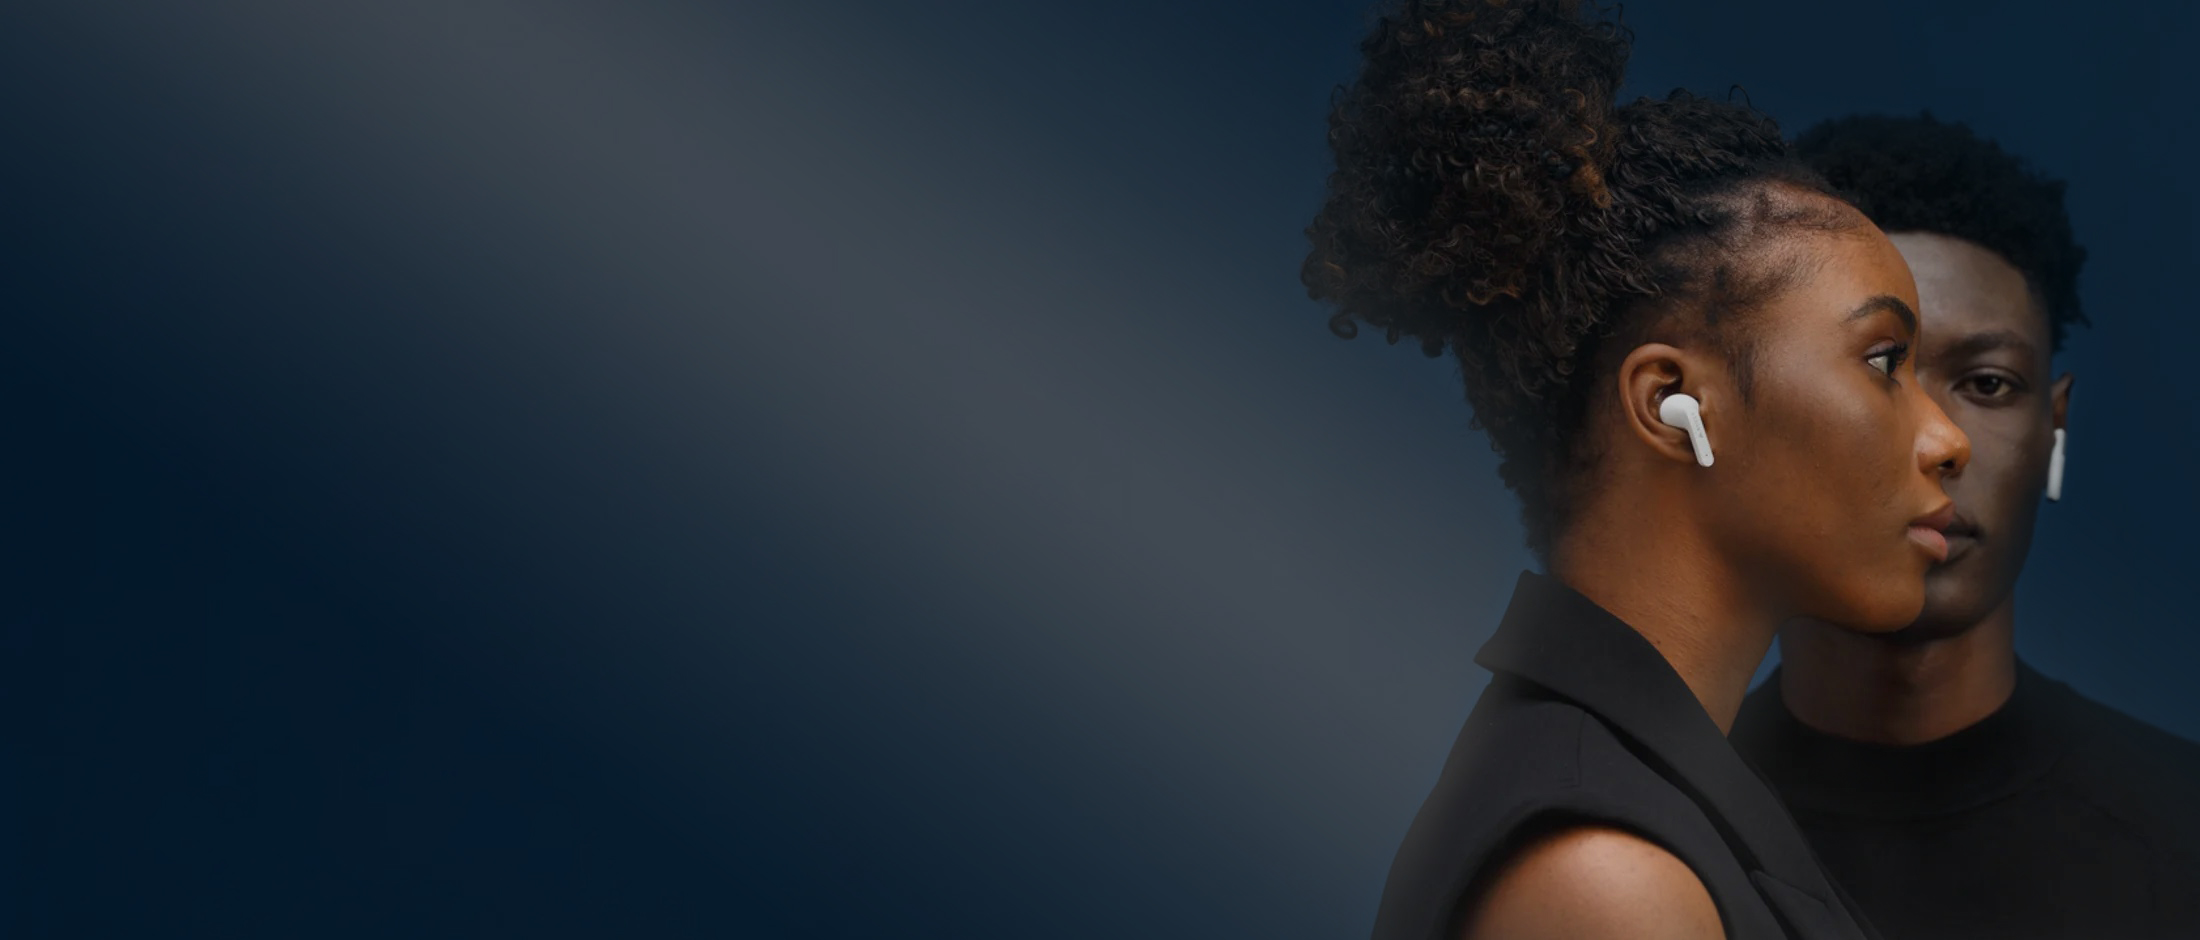
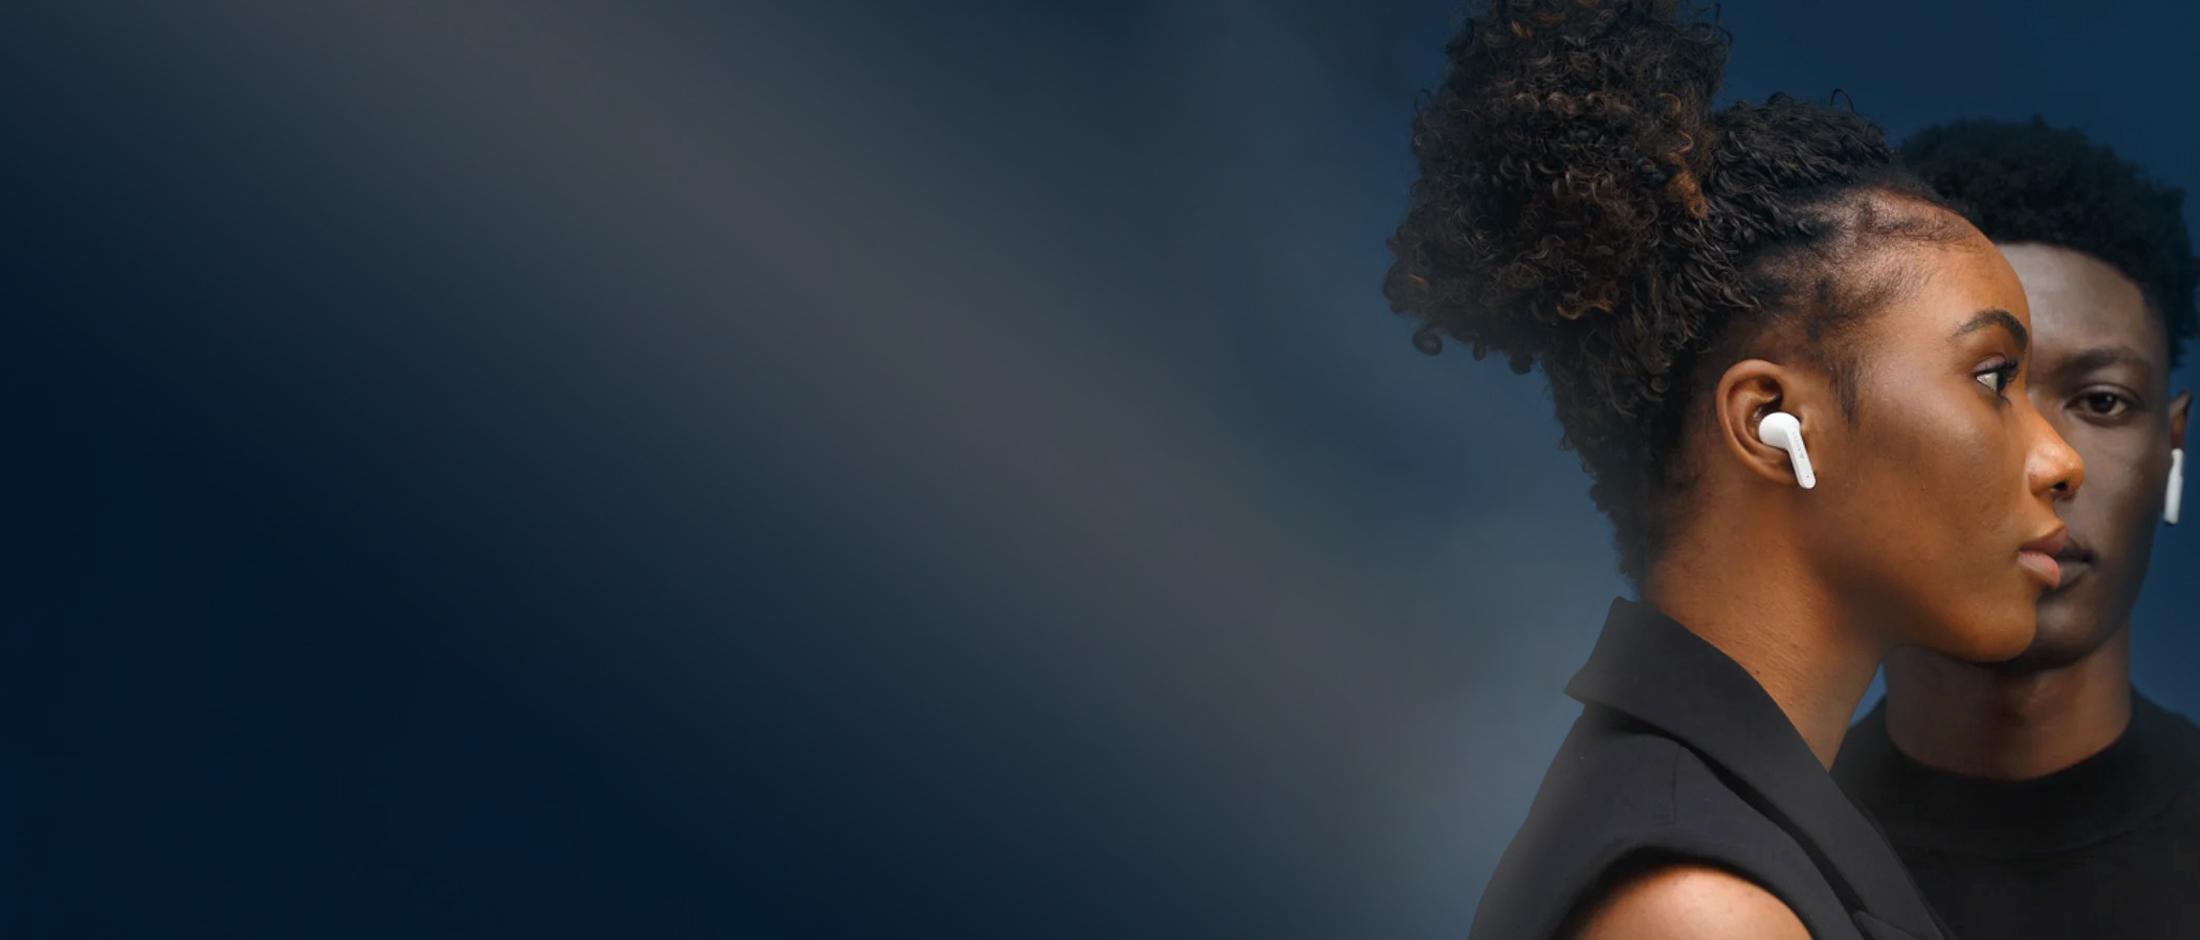
edit

Changed region(s): [[0.5873, 0.0, 1.0, 1.0]]

diff --git a/src/Component/Cards.js b/src/Component/Cards.js
@@ -71,20 +71,21 @@ function Cards({id,title,imgSrc,description,price,handlecartnumber,carts,setcart
         <Card.Img variant="top" src={imgSrc} />
         
       </Link>
-      <Card.Body>
+      <Card.Body style={{backgroundColor:"black"}}>
 { /*      <div className="d-flex align-items-center justify-content-between">
           <div className="item_rating">{}</div>
           <div className="wishlist">
             <i className="bi bi-heart"></i>
           </div>
   </div> */}
-          <div className="d-flex align-items-center justify-content-between mb-3">
-          <div className="item_rating">{renderRatingIcons(rating)}</div>
-          <div onClick={handlewishlist} >            
-            {wishlistcolor ? (<i className="bi bi-heart-fill" style={{color:"red",cursor:"pointer",fontSize:"1.5rem"}}></i> ): <i className="bi bi-heart"  style={{cursor:"pointer",fontSize:"1.5rem"}}></i>}
-          </div>
+
+        <Card.Title className="text-center" style={{ cursor: "pointer", color: "white" }} onClick={handleShow}>{title}</Card.Title>
+        <div className="d-flex align-items-center justify-content-between mb-3">
+        <div className="item_rating">{renderRatingIcons(rating)}</div>
+        <div onClick={handlewishlist} style={{color:"white"}} >            
+          {wishlistcolor ? (<i className="bi bi-heart-fill" style={{color:"red",cursor:"pointer",fontSize:"1.5rem"}}></i> ): <i className="bi bi-heart"  style={{cursor:"pointer",fontSize:"1.5rem"}}></i>}
         </div>
-        <Card.Title className="text-center" style={{ cursor: "pointer",textTransform:"Uppercase" }} onClick={handleShow}>{title}</Card.Title>
+      </div>
         <Card.Text>{}</Card.Text>
 
         <div className="d-flex align-items-center justify-content-between">
@@ -101,8 +102,8 @@ function Cards({id,title,imgSrc,description,price,handlecartnumber,carts,setcart
         </div>
       </Card.Body>
     </Card>
-    <Modal show={show} onHide={handleClose}>
-    <Modal.Header closeButton>
+    <Modal show={show} onHide={handleClose} >
+    <Modal.Header closeButton >
       <Modal.Title>{title}</Modal.Title>
     </Modal.Header>
     <Modal.Body>
@@ -110,7 +111,7 @@ function Cards({id,title,imgSrc,description,price,handlecartnumber,carts,setcart
     <img src={imgSrc} className="img-fluid " alt="cardimage" />
     </div>
     </Modal.Body>
-    <Modal.Footer>
+    <Modal.Footer style={{backgroundColor:"black",color:"yellow"}}>
     {description}
     </Modal.Footer>
   </Modal>

diff --git a/src/Pages/Homes/Section3.js b/src/Pages/Homes/Section3.js
@@ -2,6 +2,7 @@ import React from 'react'
 import { Col, Container, Row } from 'react-bootstrap'
 import { Link } from 'react-router-dom'
 import img1 from '../../assets/earbud_add.png';
+import img2 from '../../assets/headphone.png';
 function Section3() {
   return (
     <div>
@@ -9,18 +10,19 @@ function Section3() {
      <Container >
      <Row>
      <Col  lg={8} >
-     <div className='ads_box mb-5  '>
-     <h1>B&nbsp;O&nbsp;U&nbsp;L&nbsp;T&nbsp;</h1>
-      <div className='earbud_img_div'>
-      <img src={img1} className="img-fluid earbud_img" alt="Hero" />
-      </div>
-     <h5>Top Features in True Wireless Earbuds</h5>
+     <div className='ads_box mb-5  d-flex justify-content-between'>
+     <div>
+     <h5>Pemium Sound</h5>
      <h2 className="mb-0">Pro Tips to Find the</h2>
-     <h2 >Right Pair</h2>        
-      
+     <h2 >Right Pair</h2> 
+     </div>       
+      <div>
+      <img src={img2} className="img-fluid " alt="Hero" /> 
+      </div>
      </div>
      
-     </Col>     
+     </Col>
+     
      </Row>
      
      </Container>

diff --git a/src/Component/Wishlist.js b/src/Component/Wishlist.js
@@ -7,7 +7,7 @@ import {ToastContainer, toast } from 'react-toastify';
 import 'react-toastify/dist/ReactToastify.css';
 import { Bounce } from 'react-toastify';
 import items from '../Pages/Homes/Data'
-import "../Styles/WishlistStyle.css"
+ import "../Styles/WishlistStyle.css"
 function Wishlist({setwish,setcartnumber,wish,cartnumber,carts,setcarts,handlecartnumber}) {
     const handle_clear_wishlist=()=>{
         setwish([]);
@@ -64,7 +64,7 @@ function Wishlist({setwish,setcartnumber,wish,cartnumber,carts,setcarts,handleca
       </Col>
       <Col lg={4} sm={5} xs={6}  xl={4}className='d-flex justify-content-center align-items-center column_2 '>
       <div>
-      <h4 className='text-center'>{cart.title}</h4>
+      <h4 className='text-center '>{cart.title}</h4>
       <h6 className='text-center' style={{textTransform:"none",fontFamily:"sans-serif"}}>{cart.description}</h6>
       <div className="d-flex align-items-center justify-content-between">
         <div className="menu_price btn btn-primary">

diff --git a/src/Styles/HomeStyles.css b/src/Styles/HomeStyles.css
@@ -206,11 +206,11 @@
 
 /* section 3 ad section */
 .ad_section .ads_box{
-    background: url("../assets/ad_img_back.jpg") no-repeat center right;
+    background: url("../assets/ad_img_back1.jpeg") no-repeat center right;
     background-size: cover;
     width:100%;
 
-   color: white;
+   color: rgb(164, 255, 229);
   border-radius: 6px;
   padding-bottom: 2px;
 }
@@ -221,13 +221,15 @@
 }
 .ad_section .ads_box h2{
     margin-left: 75px;
-    color: #47acee;
+    color: var(--yellow);
+    text-shadow: 2px 2px 2px black;
     font-weight: 300px;
     text-transform: none;
 }
 .ad_section .ads_box h5{
     margin-left: 75px;
-    color: #619cc3;
+    color: var(--yellow);
+    text-shadow: 2px 2px 2px black;
     text-transform: none;
 }
 .earbud_img{

diff --git a/src/Styles/FooterStyle.css b/src/Styles/FooterStyle.css
@@ -104,7 +104,7 @@
 /* Scroll Top */
 .scroll_top {
   position: fixed;
-  right: 30px;
+  right: 0px;
   bottom: 30px;
   z-index: 99;
   cursor: pointer;
@@ -123,7 +123,7 @@
 }
 .scroll_down {
   position: fixed;
-  left: 30px;
+  left: 0px;
   bottom: 30px;
   z-index: 99;
   cursor: pointer;
